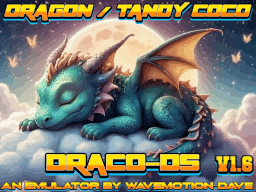
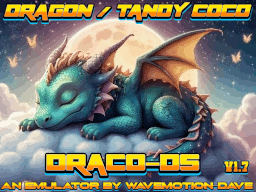
Updated readme and final cleanup as we ready for version 1.7

Changed region(s): [[0.8125, 0.7812, 1.0, 0.9375]]

diff --git a/arm9/source/DracoUtils.c b/arm9/source/DracoUtils.c
@@ -983,7 +983,7 @@ void SetDefaultGameConfig(void)
         myConfig.joystick = 1;   // Uses Left Joystick
     }
 
-    if ((file_crc == 0xd45e59e3) || (file_crc == 0xc985282a))  // Dungeons of Daggorath
+    if ((file_crc == 0xd45e59e3) || (file_crc == 0xc985282a) || strstr(initial_file, "DAGGORATH"))  // Dungeons of Daggorath
     {
         myConfig.keymap[0]   = 62;   // NDS D-Pad mapped to MOVE (FORWARD)
         myConfig.keymap[1]   = 66;   // NDS D-Pad mapped to TURN AROUND
@@ -1048,6 +1048,11 @@ void SetDefaultGameConfig(void)
     if (strstr(initial_file, "ANDRONE"))  // Analog Center
     {
         myConfig.joyType = 2;
+    }
+
+    if ((strstr(initial_file, "SPACE ASSAULT")) || (strstr(initial_file, "SPACEASSAULT")))  // Analog Slow
+    {
+        myConfig.joyType = 1;
     }
 
     if (strstr(initial_file, "POLARIS"))

diff --git a/README.md b/README.md
@@ -169,28 +169,38 @@ Joystick Options :
 -----------------------
 The Tandy CoCo and Dragon machines used an analog joystick that is difficult to emulate properly on the DS/DSi. To that end, the default 'Joystick' is digital - that 
 is, pressing the D-Pad will emualte extreme analog positions of a real joystick. This works fine for many games... but some games really did take advantage of the
-multi-position of a real analog stick. So you can change the default 'DIGITAL' controller to 3 speeds of Analog - both self-centering and none. Games like POLARIS, for
-example, play fine with the 'SLOW ANALOG' setting.  Experiment and figure out what works best for any given game. Your joystick settings are saved on a per-game basis.
+multi-position of a real analog stick. So you can change the default 'DIGITAL' controller to some flavor of Analog - both normal and self-centering versions. 
+Games like POLARIS, for example, play fine with the 'SLOW ANALOG' setting. Experiment and figure out what works best for any given game. Your joystick settings 
+are saved on a per-game basis.
 
 Here is a short breakdown of the various joystick handling modes:
 
 * DIGITAL - Pressing any direction instantly brings the analog axis value to the min/max. Releasing keys brings it back to the center position (32,32).
-* ANALOG SLOW - Pressing any direction moves the analog values towards either min or max (depending on direction pressed) and does not auto-center.
-* ANALOG MEDIUM - Pressing any direction moves the analog values towards either min or max (depending on direction pressed) and does not auto-center.
-* ANALOG FAST - Pressing any direction moves the analog values towards either min or max (depending on direction pressed) and does not auto-center.
-* SLOW CENTER - Pressing any direction moves the analog values towards either min or max (depending on direction pressed) and when released, brings it back to center.
-* MEDIUM CENTER - Pressing any direction moves the analog values towards either min or max (depending on direction pressed) and when released, brings it back to center.
-* FAST CENTER - Pressing any direction moves the analog values towards either min or max (depending on direction pressed) and when released, brings it back to center.
-* DIGITAL OFFSET - Pressing any direction moves the analog values towards either min or max (depending on direction pressed) and when released, brings it _almost_ to center but leaves it slightly towards the last value pressed. Useful for some maze games.
+* ANALOG  - Pressing any direction moves the analog values towards either min or max (depending on direction pressed) and does not auto-center.
+* ANALOG CENTER - Pressing any direction moves the analog values towards either min or max (depending on direction pressed) and when released, brings it back to center.
+* DIGITAL OFFSET - Pressing any direction moves the analog values towards either min or max (depending on direction pressed) and when released, brings it _almost_ to center but leaves it slightly towards the last value pressed. Useful for some maze games. If you find a game where your character slowly drifts in a direction, try one of the digital offset settings.
+
+You can also change the analog sensitivity on a per-axis basis (X axis, Y axis). Generally 'Slow' is fine but you might want a more responsive joystick control.
 
 The default joystick is the RIGHT port joystick but every game seems to be different... if the game isn't responding to the RIGHT joystick port, switch it in the 
 game options to the LEFT port (you don't have to exit the game to make this change - the DS MINI menu has the Game Options available from the little Cassette Icon)
 
-There is also a very useful mode of the d-pad called "SLIDE-N-GLIDE" which was originally designed by me to play and enjoy Chuckie Egg on my ZX Spectrum Emulator. 
+Miscellaneous Options :
+-----------------------
+There is a useful mode of the d-pad called "SLIDE-N-GLIDE" which was originally designed by me to play and enjoy Chuckie Egg on my ZX Spectrum Emulator. 
 If you've ever played a ladder climbing game or maze game where getting on/off the ladder or turning a corner was difficult, then SLIDE-N-GLIDE might be just the
 ticket. It causes the movement of the player to continue to move in the horizontal or vertical direction while you change direction on the d-pad. This makes for 
 much smoother transitions onto/off laders and makes for very easy cornering in maze games. Turn this on in configuration - you may just find it the most enjoyable 
 option in the emulator!
+
+Force CSS will force the color select. Some games like DragonFire will try to change the CSS mid-scaline to produce some amazing trickery in allowing more colors than
+normal to be displayed. But the emulator only renders the video at the end of scanlines - so this trick won't work. Forcing CSS allows the user to choose one color set
+or the other ... for DragonFire, it is set by default to CSS 1 and that produces a mostly green coloring for the drawbridge which is pleasant enough.
+
+Lastly, there is a Click Filter that is enabled by default. Due to the multiplexing nature of the system, enabling and disabling sound can produce audio clicks as
+the sound output suddenly drops or is engaged. Some games like Demon Attack take advantage of this to produce in-game sounds. Some games like Androne will hit the
+hardware in such a way as to produce barely audible buzz on real hardware - but under emulation it will sound much louder and grating. To that end, most games run
+and sound fine with the Sound Filter enabled... but a few rare games (like Demon Attack) won't have proper sounds unless you disable the filter. Emulation is rarely perfect.
 
 Keyboards :
 -----------------------
@@ -225,6 +235,7 @@ Known Issues:
 -----------------------
 * Shamus loads and runs but has no sound during gameplay. Cause unknown (but likely PIA emulation inaccuracies).
 * Oodles loads but freezes after startup. Cause unknown (but likely PIA emulation inaccuracies).
+* Dragonfire is not color-accurate on the brawbridge screen. Mid-scanline CSS trickery is not supported by this emulation. Game plays fine, however.
 * Rocky's Boots two-disk version will not load. Cause unknown. Seek the 180K single-disk version which does work.
 
 Recommended Games:
@@ -284,6 +295,12 @@ And then move the soundbank.h file to the arm9/sources directory
 
 Versions :
 -----------------------
+V1.7: 09-Aug-2026 by wavemotion-dave
+* Improved sound driver for better accuracy. Games like Demon Attack now sound reasonably correct.
+* More tweaks to more games so they play as intended (correct joystick map, Dragonfire colors, etc).
+* New options to allow Analog sensitivity on a per-axis (X or Y) basis.
+* New option to boost volume for some games that were a bit quiet (e.g. Demon Attack).
+* More cleanup and minor improvements as time permitted.
 
 V1.6: 05-Aug-2026 by wavemotion-dave
 * Improved accuracy on PIA handling (DDR and masking supported) - sound and keyboard reading more robust. More games read keys/joystick more correctly.
